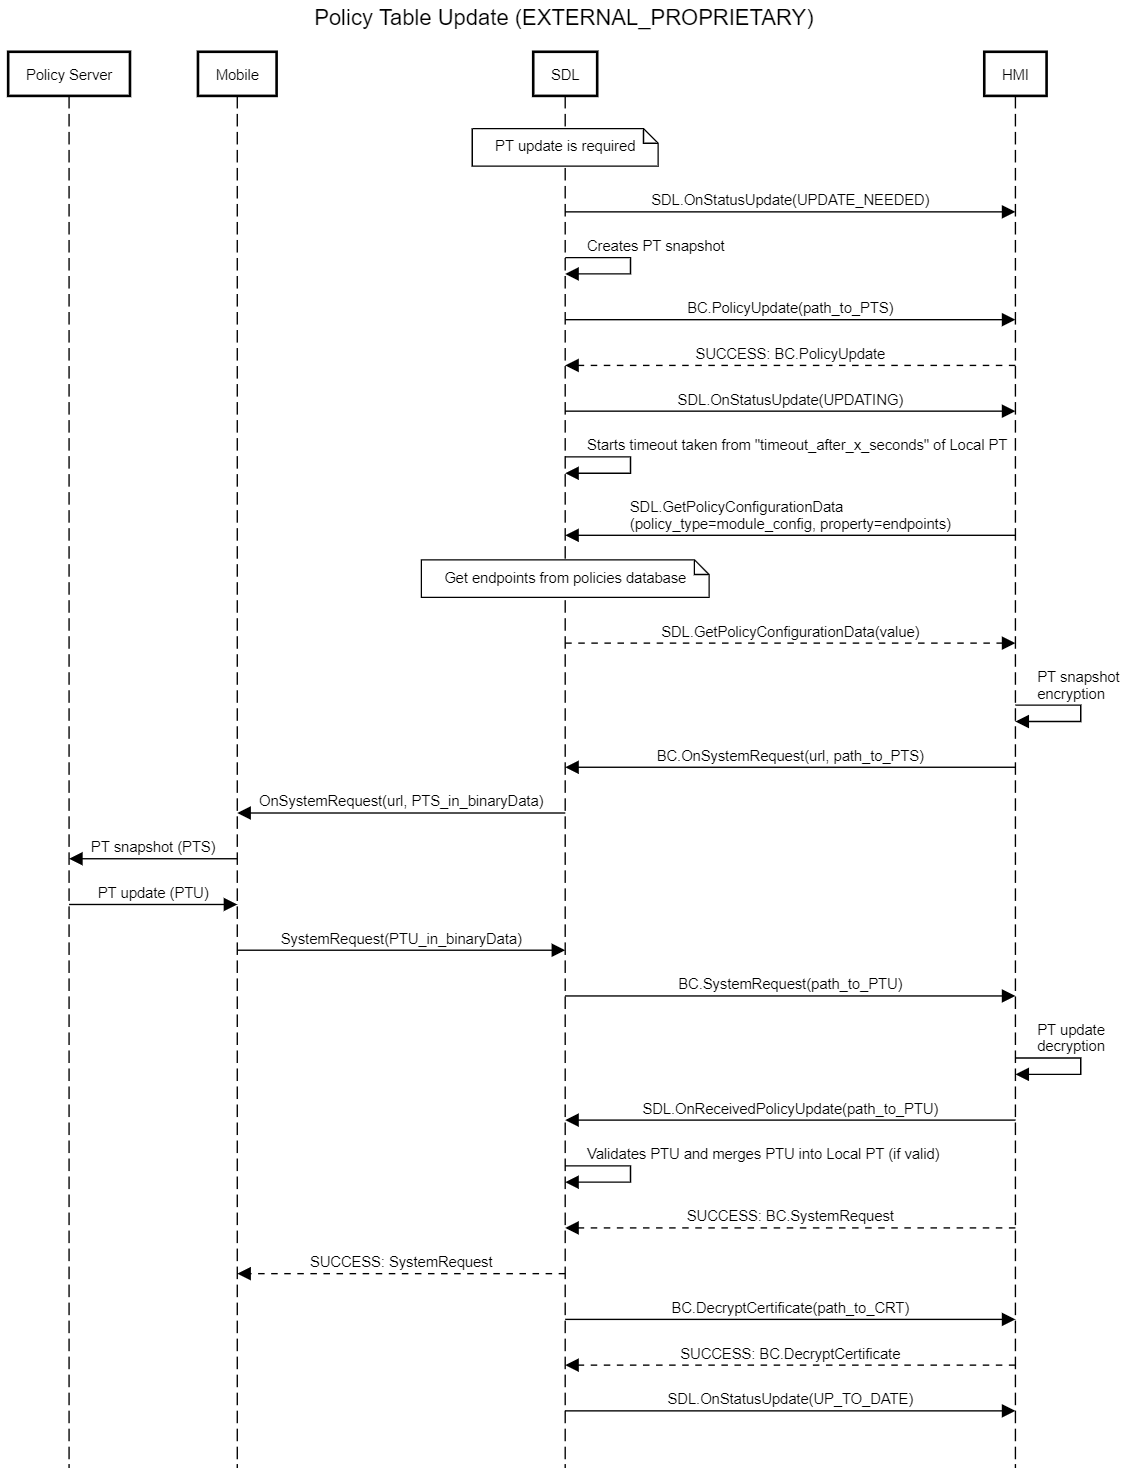
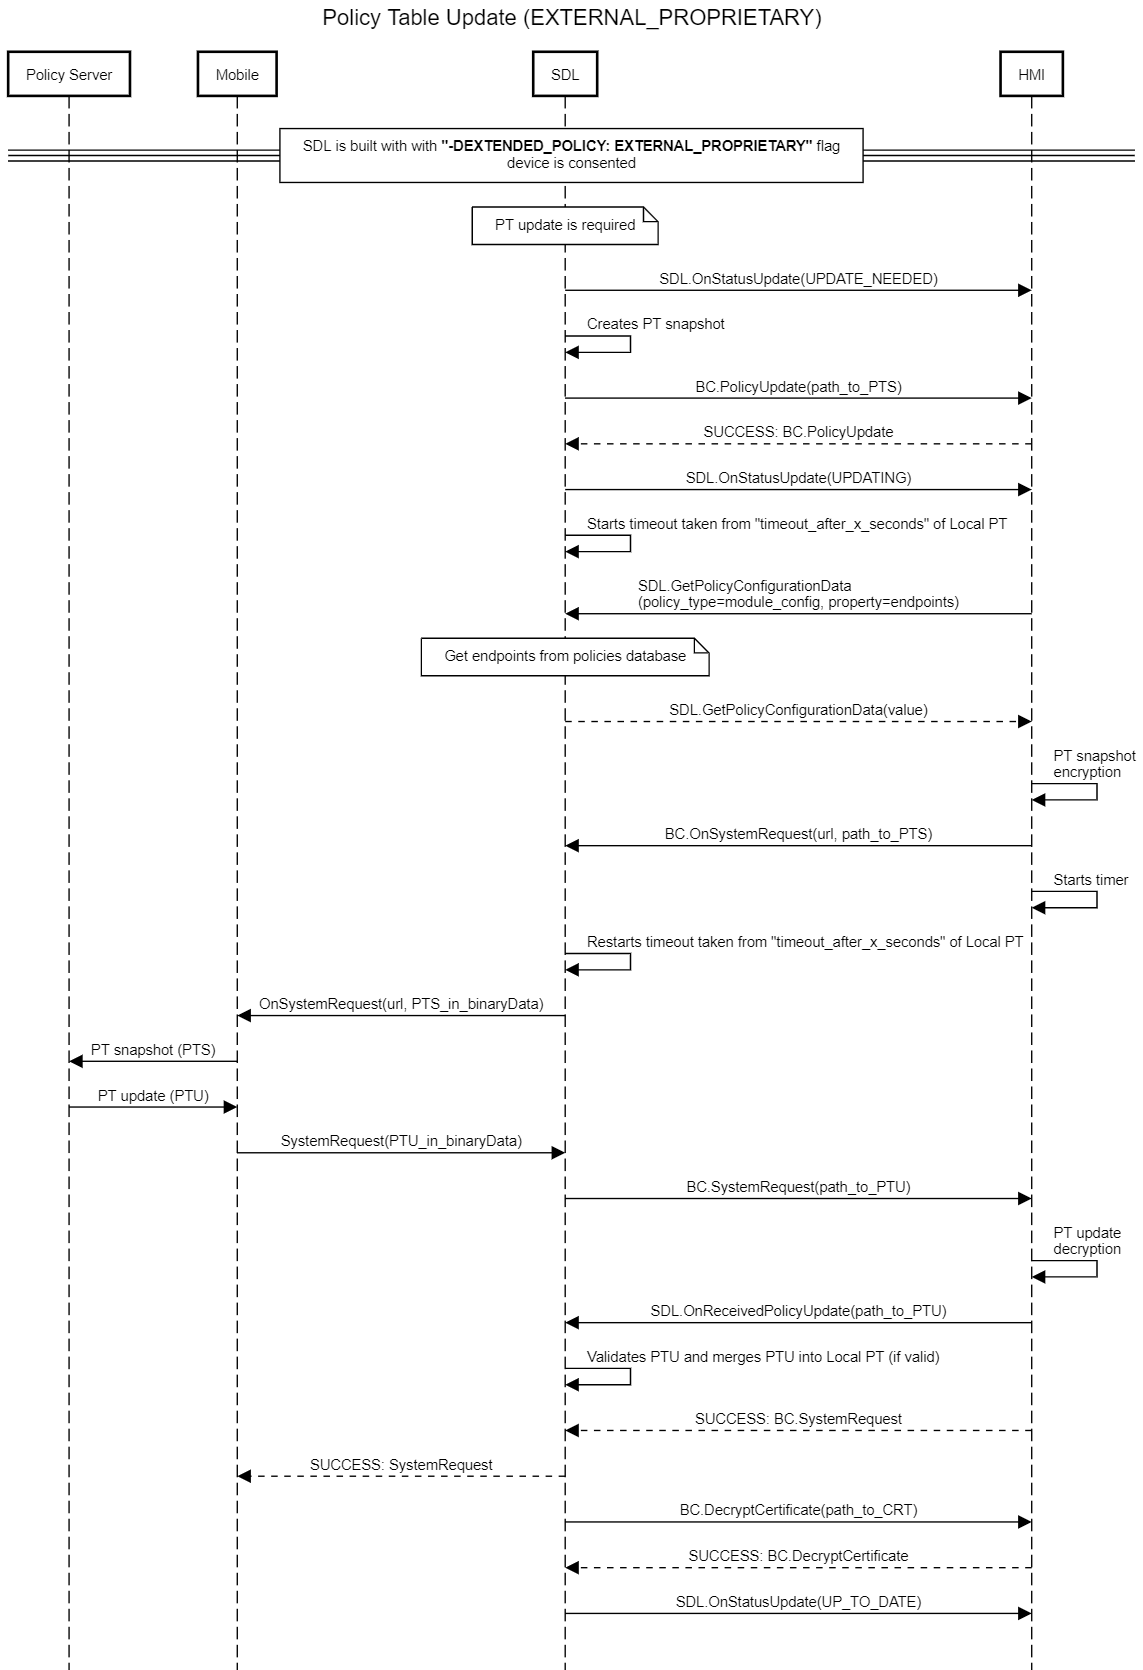
update PROPR, EXT_PROPR diagrams; upd PROPR PTU sequence index

diff --git a/detailed_docs/Policies/PROPRIETARY/PolicyTableUpdate/PolicyTableUpdate_Sequence_TRS.md b/detailed_docs/Policies/PROPRIETARY/PolicyTableUpdate/PolicyTableUpdate_Sequence_TRS.md
@@ -13,7 +13,7 @@ EXTERNAL_PROPRIETARY exception: No notification should be sent on user requested
 
 _Note: the source of the PolicyTableUpdate is the Policies Cloud._
 
-### **Policy Table Snapshot creation**
+
 2. 	
 
 To create Policy Table Snapshot 
